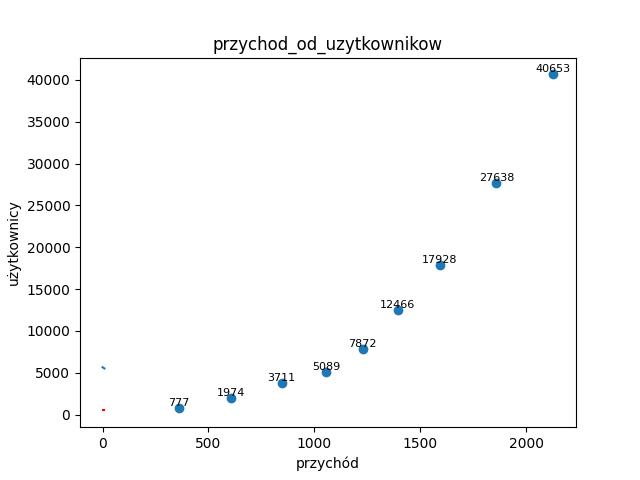
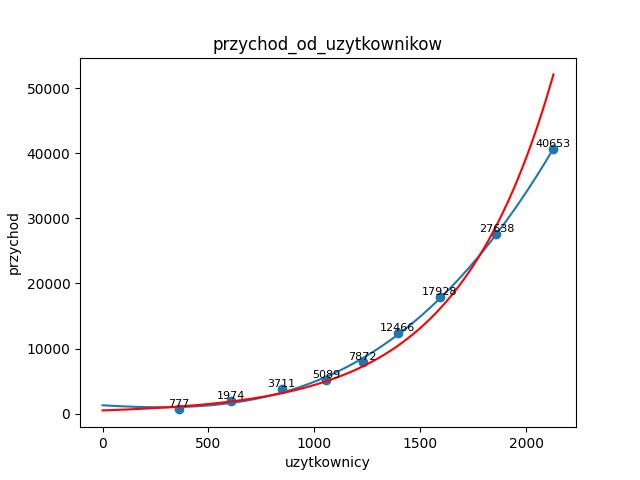
pushing

diff --git a/facebook.py b/facebook.py
@@ -93,6 +93,27 @@ przychod.pop(0)
 przychod.pop(0)
 X, X_t, Y, A = func.build_matrices(users, przychod, 1)
 
-draw.draw_graph(users, przychod, 'przychód', 'użytkownicy', 'przychod_od_uzytkownikow',
+draw.draw_graph(users, przychod, 'uzytkownicy', 'przychod', 'przychod_od_uzytkownikow',
+                mf.wyznacz_funkcje_wielomianowa(users, przychod, 3),
+                mf.wyznacz_funkcje_wykladnicza(users, przychod))
+
+### WYKRES NA PODSTAWIE PRZEWIDZIANEJ WARTOSCI PODSTAWIONY DO FUNKCJI WIELOMIANOWEJ
+# helper = mf.wyznacz_funkcje_wielomianowa(users, przychod, 3),
+# users.append(uzytk_pred)
+# k = helper[0]
+# przychod.append(k(uzytk_pred).__floor__())
+#
+# draw.draw_graph(users, przychod, 'uzytkownicy', 'przychod', 'przychod_od_uzytkownikow_pred_wielo',
+#                 mf.wyznacz_funkcje_wielomianowa(users, przychod, 3),
+#                 mf.wyznacz_funkcje_wykladnicza(users, przychod))
+
+
+### WYKRES NA PODSTAWIE PRZEWIDZANEJ WARTOSCI PODSTAWIONY DO FUNCKJI WYKLADNICZEJ
+helper = mf.wyznacz_funkcje_wykladnicza(users, przychod),
+users.append(uzytk_pred)
+k = helper[0]
+przychod.append(k(uzytk_pred).__floor__())
+
+draw.draw_graph(users, przychod, 'uzytkownicy', 'przychod', 'przychod_od_uzytkownikow_pred_wykl',
                 mf.wyznacz_funkcje_wielomianowa(users, przychod, 3),
                 mf.wyznacz_funkcje_wykladnicza(users, przychod))

diff --git a/draw_graph.py b/draw_graph.py
@@ -13,9 +13,9 @@ def make_plot(x, y, title, xlabel, ylabel, model, nazwa):
 
 
 def draw_graph(array1, array2, axisx_name, axisy_name, graph_name, funtion1=None, funtion2=None):
-    sorted_indices = sorted(range(len(array2)), key=lambda _: array2[_])
-    sorted_array1 = [array1[i] for i in sorted_indices]
-    sorted_array2 = [array2[i] for i in sorted_indices]
+    # sorted_indices = sorted(range(len(array2)), key=lambda _: array2[_])
+    # sorted_array1 = [array1[i] for i in sorted_indices]
+    # sorted_array2 = [array2[i] for i in sorted_indices]
     plt.title(graph_name)
     plt.xlabel(axisx_name)
     plt.ylabel(axisy_name)
@@ -25,7 +25,7 @@ def draw_graph(array1, array2, axisx_name, axisy_name, graph_name, funtion1=None
     # naniesienie puntkow na wykres
     plt.scatter(array1, array2)
     # utworzenie przestrzeni liniowej dla podstawienia do funkcji
-    x = np.linspace(0, len(array1), 1000)
+    x = np.linspace(0, array1[len(array1)-1], 1000)
     # naniesienie funkcji na wykres
     if funtion1 != None:
         plt.plot(x, funtion1(x))
